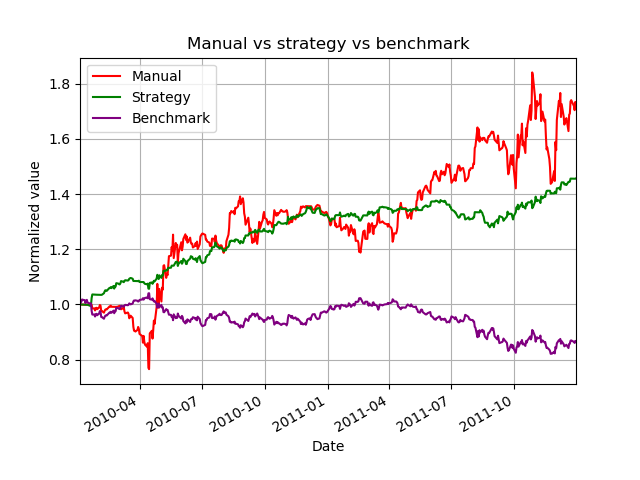
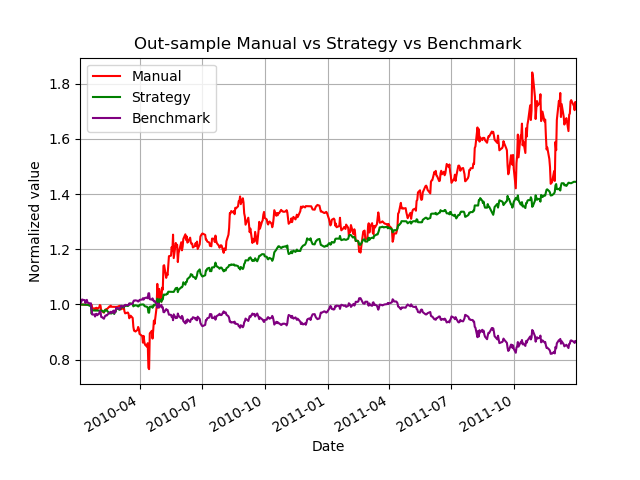
update exp1 charts with title

diff --git a/strategy_evaluation/experiment1.py b/strategy_evaluation/experiment1.py
@@ -9,7 +9,7 @@ import matplotlib.pyplot as plt
 def author():
     return 'syusuff3'
 
-def compute_and_plot(start_date, end_date, file_name):
+def compute_and_plot(start_date, end_date, file_name, title):
     impact, commission = 0.005, 9.95
     symbol = "JPM"
     start_val = 100000
@@ -41,7 +41,7 @@ def compute_and_plot(start_date, end_date, file_name):
     benchmark_normalized.plot(color='purple')
 
     plt.legend(['Manual', 'Strategy', 'Benchmark'])
-    plt.title("Manual vs strategy vs benchmark")
+    plt.title(title)
     plt.xlabel("Date")
     plt.ylabel("Normalized value")
     plt.grid(True)
@@ -57,9 +57,11 @@ def run_experiment():
     # Commission: $9.95, Impact: 0.005
 
     # in-sample
-    indata = compute_and_plot(dt.datetime(2008,1,1), dt.datetime(2009,12,31), "Exp1InSample")
+    indata = compute_and_plot(dt.datetime(2008,1,1), dt.datetime(2009,12,31),
+                              "Exp1InSample", "In-sample Manual vs Strategy vs Benchmark")
     # out-sample
-    outdata = compute_and_plot(dt.datetime(2010,1,1), dt.datetime(2011,12,31), "Exp1OutSample")
+    outdata = compute_and_plot(dt.datetime(2010,1,1), dt.datetime(2011,12,31),
+                               "Exp1OutSample", "Out-sample Manual vs Strategy vs Benchmark")
 
 
     return indata, outdata
